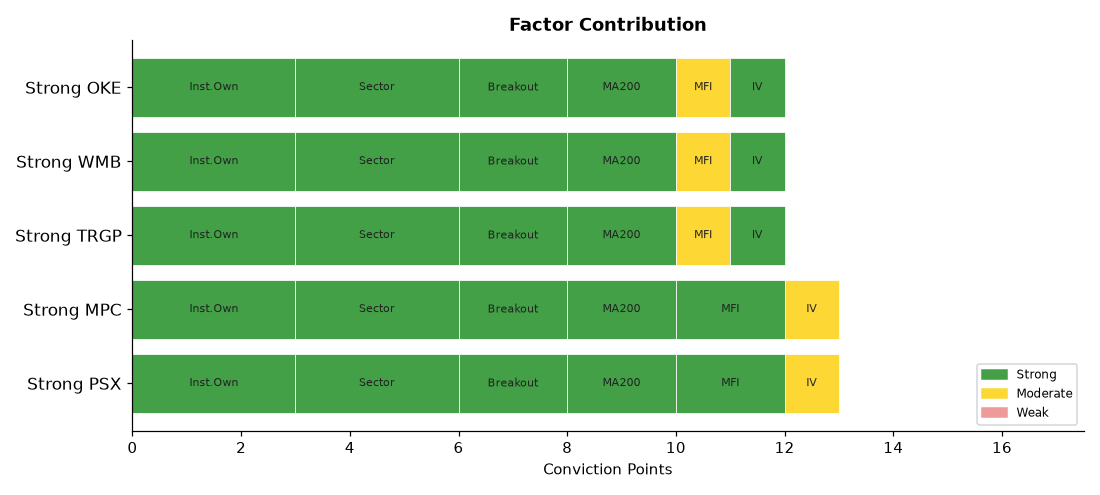
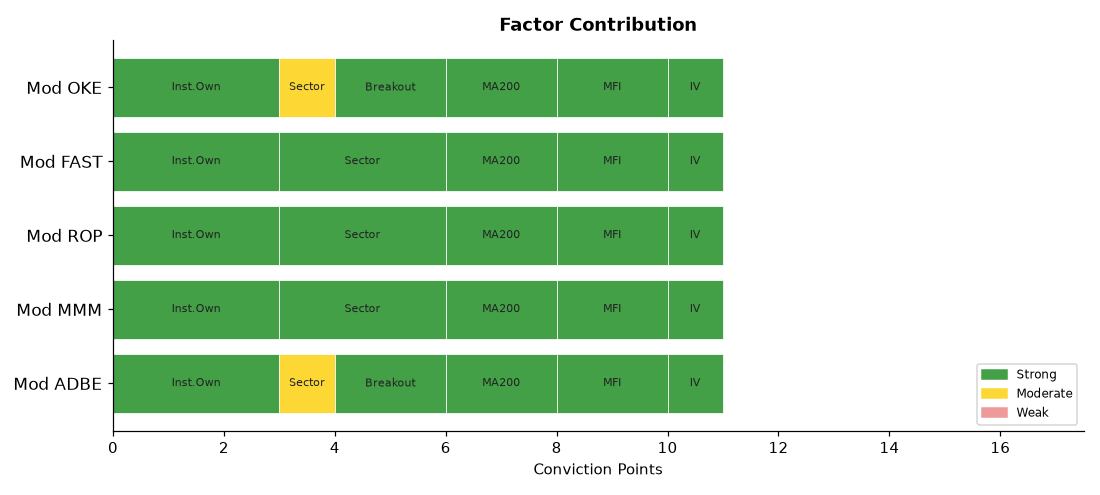
deploy: b7fadf5b06deb90e7ebb92f278722414bdd9750d

diff --git a/index.html b/index.html
@@ -4,7 +4,7 @@
   <meta charset="UTF-8">
   <meta name="viewport" content="width=device-width,initial-scale=1">
   <meta http-equiv="Cache-Control" content="no-cache,no-store,must-revalidate">
-  <title>Stock Breakout Screener — 2026-08-26 15:58</title>
+  <title>Stock Breakout Screener — 2026-08-26 19:09</title>
   <style>
     *{box-sizing:border-box;margin:0;padding:0}
     body{font-family:'Segoe UI',Arial,sans-serif;background:#f0f2f5;
@@ -34,20 +34,20 @@
 
 <div class="hdr">
   <h1>📈 Stock Breakout Screener</h1>
-  <p>Updated: 2026-08-26 15:58 UTC &nbsp;·&nbsp; Phase: Regular Market Hours &nbsp;·&nbsp;
+  <p>Updated: 2026-08-26 19:09 UTC &nbsp;·&nbsp; Phase: Regular Market Hours &nbsp;·&nbsp;
      129 stocks screened &nbsp;·&nbsp; Top 5 by conviction score</p>
 </div>
 
 <div class="card">
   <strong style="font-size:14px">Market Sentiment: 🐻 Bearish</strong>
   <div class="bar-wrap" style="margin-top:10px">
-    <div style="width:5%;background:#43a047"></div>
-    <div style="width:3%;background:#fdd835"></div>
+    <div style="width:0%;background:#43a047"></div>
+    <div style="width:8%;background:#fdd835"></div>
     <div style="width:92%;background:#e53935"></div>
   </div>
   <div style="font-size:12px;color:#555">
-    🟢 Strong 5% &nbsp;
-    🟡 Moderate 3% &nbsp;
+    🟢 Strong 0% &nbsp;
+    🟡 Moderate 8% &nbsp;
     🔴 Weak 92%
   </div>
 </div>
@@ -59,85 +59,85 @@
                     box-shadow:0 2px 6px rgba(0,0,0,.07)">
           <div style="display:flex;align-items:center;gap:10px;
                       flex-wrap:wrap;margin-bottom:10px">
-            <span style="font-size:22px">🟢</span>
-            <span style="font-size:19px;font-weight:700">1. PSX</span>
-            <span style="font-size:12px;color:#666">Energy</span>
+            <span style="font-size:22px">🟡</span>
+            <span style="font-size:19px;font-weight:700">1. ADBE</span>
+            <span style="font-size:12px;color:#666">Technology</span>
             <span style="margin-left:auto;background:#1a237e;color:#fff;
                          padding:3px 12px;border-radius:12px;
                          font-size:13px;font-weight:600">
-              12/17
+              11/17
             </span>
           </div>
           <ul style="margin:0;padding-left:18px;font-size:13px;
-                     color:#333;line-height:1.8"><li style="margin:5px 0"><span style="background:#ffebee;color:#b71c1c;padding:2px 7px;border-radius:4px;font-size:11px;">❌</span> Volume: <b>0.2× average</b> — Above-average activity</li><li style="margin:5px 0"><span style="background:#e8f5e9;color:#2e7d32;padding:2px 7px;border-radius:4px;font-size:11px;">✅</span> Candle: close <b>$243.12</b> vs open <b>$234.06</b> (+3.9%) — regular market close</li><li style="margin:5px 0"><span style="background:#e8f5e9;color:#2e7d32;padding:2px 7px;border-radius:4px;font-size:11px;">✅</span> 200-Day MA: price <b>$243.12</b> vs MA <b>$183.04</b> — <b>✅ Above</b> long-term trend</li><li style="margin:5px 0"><span style="background:#e8f5e9;color:#2e7d32;padding:2px 7px;border-radius:4px;font-size:11px;">✅</span> Inst. ownership: <b>80.6%</b> · MFI: <b>78.5</b> · Market cap: <b>$97.5B</b></li></ul>
+                     color:#333;line-height:1.8"><li style="margin:5px 0"><span style="background:#ffebee;color:#b71c1c;padding:2px 7px;border-radius:4px;font-size:11px;">❌</span> Volume: <b>0.3× average</b> — Above-average activity</li><li style="margin:5px 0"><span style="background:#e8f5e9;color:#2e7d32;padding:2px 7px;border-radius:4px;font-size:11px;">✅</span> Candle: close <b>$273.43</b> vs open <b>$265.04</b> (+3.2%) — regular market close</li><li style="margin:5px 0"><span style="background:#e8f5e9;color:#2e7d32;padding:2px 7px;border-radius:4px;font-size:11px;">✅</span> 200-Day MA: price <b>$273.43</b> vs MA <b>$243.62</b> — <b>✅ Above</b> long-term trend</li><li style="margin:5px 0"><span style="background:#e8f5e9;color:#2e7d32;padding:2px 7px;border-radius:4px;font-size:11px;">✅</span> Inst. ownership: <b>86.8%</b> · MFI: <b>68.2</b> · Market cap: <b>$108.7B</b></li></ul>
         </div>
         <div style="background:#fff;border:1px solid #ddd;border-radius:10px;
                     padding:16px 20px;margin-bottom:12px;
                     box-shadow:0 2px 6px rgba(0,0,0,.07)">
           <div style="display:flex;align-items:center;gap:10px;
                       flex-wrap:wrap;margin-bottom:10px">
-            <span style="font-size:22px">🟢</span>
-            <span style="font-size:19px;font-weight:700">2. MPC</span>
-            <span style="font-size:12px;color:#666">Energy</span>
+            <span style="font-size:22px">🟡</span>
+            <span style="font-size:19px;font-weight:700">2. MMM</span>
+            <span style="font-size:12px;color:#666">Industrials</span>
             <span style="margin-left:auto;background:#1a237e;color:#fff;
                          padding:3px 12px;border-radius:12px;
                          font-size:13px;font-weight:600">
-              12/17
+              11/17
             </span>
           </div>
           <ul style="margin:0;padding-left:18px;font-size:13px;
-                     color:#333;line-height:1.8"><li style="margin:5px 0"><span style="background:#ffebee;color:#b71c1c;padding:2px 7px;border-radius:4px;font-size:11px;">❌</span> Volume: <b>0.3× average</b> — Above-average activity</li><li style="margin:5px 0"><span style="background:#e8f5e9;color:#2e7d32;padding:2px 7px;border-radius:4px;font-size:11px;">✅</span> Candle: close <b>$363.82</b> vs open <b>$350.79</b> (+3.7%) — regular market close</li><li style="margin:5px 0"><span style="background:#e8f5e9;color:#2e7d32;padding:2px 7px;border-radius:4px;font-size:11px;">✅</span> 200-Day MA: price <b>$363.82</b> vs MA <b>$263.75</b> — <b>✅ Above</b> long-term trend</li><li style="margin:5px 0"><span style="background:#e8f5e9;color:#2e7d32;padding:2px 7px;border-radius:4px;font-size:11px;">✅</span> Inst. ownership: <b>79.6%</b> · MFI: <b>71.8</b> · Market cap: <b>$102.2B</b></li></ul>
+                     color:#333;line-height:1.8"><li style="margin:5px 0"><span style="background:#ffebee;color:#b71c1c;padding:2px 7px;border-radius:4px;font-size:11px;">❌</span> Volume: <b>0.3× average</b> — Above-average activity</li><li style="margin:5px 0"><span style="background:#ffebee;color:#b71c1c;padding:2px 7px;border-radius:4px;font-size:11px;">❌</span> Candle: close <b>$178.82</b> vs open <b>$180.50</b> (-0.9%) — regular market close</li><li style="margin:5px 0"><span style="background:#e8f5e9;color:#2e7d32;padding:2px 7px;border-radius:4px;font-size:11px;">✅</span> 200-Day MA: price <b>$178.82</b> vs MA <b>$157.03</b> — <b>✅ Above</b> long-term trend</li><li style="margin:5px 0"><span style="background:#e8f5e9;color:#2e7d32;padding:2px 7px;border-radius:4px;font-size:11px;">✅</span> Inst. ownership: <b>76.9%</b> · MFI: <b>61.3</b> · Market cap: <b>$92.2B</b></li></ul>
         </div>
         <div style="background:#fff;border:1px solid #ddd;border-radius:10px;
                     padding:16px 20px;margin-bottom:12px;
                     box-shadow:0 2px 6px rgba(0,0,0,.07)">
           <div style="display:flex;align-items:center;gap:10px;
                       flex-wrap:wrap;margin-bottom:10px">
-            <span style="font-size:22px">🟢</span>
-            <span style="font-size:19px;font-weight:700">3. TRGP</span>
-            <span style="font-size:12px;color:#666">Energy</span>
+            <span style="font-size:22px">🟡</span>
+            <span style="font-size:19px;font-weight:700">3. ROP</span>
+            <span style="font-size:12px;color:#666">Industrials</span>
             <span style="margin-left:auto;background:#1a237e;color:#fff;
                          padding:3px 12px;border-radius:12px;
                          font-size:13px;font-weight:600">
-              12/17
+              11/17
             </span>
           </div>
           <ul style="margin:0;padding-left:18px;font-size:13px;
-                     color:#333;line-height:1.8"><li style="margin:5px 0"><span style="background:#ffebee;color:#b71c1c;padding:2px 7px;border-radius:4px;font-size:11px;">❌</span> Volume: <b>0.2× average</b> — Above-average activity</li><li style="margin:5px 0"><span style="background:#e8f5e9;color:#2e7d32;padding:2px 7px;border-radius:4px;font-size:11px;">✅</span> Candle: close <b>$294.30</b> vs open <b>$284.26</b> (+3.5%) — regular market close</li><li style="margin:5px 0"><span style="background:#e8f5e9;color:#2e7d32;padding:2px 7px;border-radius:4px;font-size:11px;">✅</span> 200-Day MA: price <b>$294.30</b> vs MA <b>$258.40</b> — <b>✅ Above</b> long-term trend</li><li style="margin:5px 0"><span style="background:#e8f5e9;color:#2e7d32;padding:2px 7px;border-radius:4px;font-size:11px;">✅</span> Inst. ownership: <b>97.5%</b> · MFI: <b>53.6</b> · Market cap: <b>$63.1B</b></li></ul>
+                     color:#333;line-height:1.8"><li style="margin:5px 0"><span style="background:#ffebee;color:#b71c1c;padding:2px 7px;border-radius:4px;font-size:11px;">❌</span> Volume: <b>0.2× average</b> — Above-average activity</li><li style="margin:5px 0"><span style="background:#ffebee;color:#b71c1c;padding:2px 7px;border-radius:4px;font-size:11px;">❌</span> Candle: close <b>$415.89</b> vs open <b>$407.44</b> (+2.1%) — regular market close</li><li style="margin:5px 0"><span style="background:#e8f5e9;color:#2e7d32;padding:2px 7px;border-radius:4px;font-size:11px;">✅</span> 200-Day MA: price <b>$415.89</b> vs MA <b>$355.43</b> — <b>✅ Above</b> long-term trend</li><li style="margin:5px 0"><span style="background:#e8f5e9;color:#2e7d32;padding:2px 7px;border-radius:4px;font-size:11px;">✅</span> Inst. ownership: <b>106.9%</b> · MFI: <b>68.9</b> · Market cap: <b>$41.1B</b></li></ul>
         </div>
         <div style="background:#fff;border:1px solid #ddd;border-radius:10px;
                     padding:16px 20px;margin-bottom:12px;
                     box-shadow:0 2px 6px rgba(0,0,0,.07)">
           <div style="display:flex;align-items:center;gap:10px;
                       flex-wrap:wrap;margin-bottom:10px">
-            <span style="font-size:22px">🟢</span>
-            <span style="font-size:19px;font-weight:700">4. WMB</span>
-            <span style="font-size:12px;color:#666">Energy</span>
+            <span style="font-size:22px">🟡</span>
+            <span style="font-size:19px;font-weight:700">4. FAST</span>
+            <span style="font-size:12px;color:#666">Industrials</span>
             <span style="margin-left:auto;background:#1a237e;color:#fff;
                          padding:3px 12px;border-radius:12px;
                          font-size:13px;font-weight:600">
-              12/17
+              11/17
             </span>
           </div>
           <ul style="margin:0;padding-left:18px;font-size:13px;
-                     color:#333;line-height:1.8"><li style="margin:5px 0"><span style="background:#ffebee;color:#b71c1c;padding:2px 7px;border-radius:4px;font-size:11px;">❌</span> Volume: <b>0.6× average</b> — Above-average activity</li><li style="margin:5px 0"><span style="background:#e8f5e9;color:#2e7d32;padding:2px 7px;border-radius:4px;font-size:11px;">✅</span> Candle: close <b>$74.48</b> vs open <b>$71.16</b> (+4.7%) — regular market close</li><li style="margin:5px 0"><span style="background:#e8f5e9;color:#2e7d32;padding:2px 7px;border-radius:4px;font-size:11px;">✅</span> 200-Day MA: price <b>$74.48</b> vs MA <b>$73.12</b> — <b>✅ Above</b> long-term trend</li><li style="margin:5px 0"><span style="background:#e8f5e9;color:#2e7d32;padding:2px 7px;border-radius:4px;font-size:11px;">✅</span> Inst. ownership: <b>91.4%</b> · MFI: <b>51.2</b> · Market cap: <b>$91.1B</b></li></ul>
+                     color:#333;line-height:1.8"><li style="margin:5px 0"><span style="background:#ffebee;color:#b71c1c;padding:2px 7px;border-radius:4px;font-size:11px;">❌</span> Volume: <b>0.2× average</b> — Above-average activity</li><li style="margin:5px 0"><span style="background:#ffebee;color:#b71c1c;padding:2px 7px;border-radius:4px;font-size:11px;">❌</span> Candle: close <b>$51.16</b> vs open <b>$50.65</b> (+1.0%) — regular market close</li><li style="margin:5px 0"><span style="background:#e8f5e9;color:#2e7d32;padding:2px 7px;border-radius:4px;font-size:11px;">✅</span> 200-Day MA: price <b>$51.16</b> vs MA <b>$46.19</b> — <b>✅ Above</b> long-term trend</li><li style="margin:5px 0"><span style="background:#e8f5e9;color:#2e7d32;padding:2px 7px;border-radius:4px;font-size:11px;">✅</span> Inst. ownership: <b>87.6%</b> · MFI: <b>66.8</b> · Market cap: <b>$58.7B</b></li></ul>
         </div>
         <div style="background:#fff;border:1px solid #ddd;border-radius:10px;
                     padding:16px 20px;margin-bottom:12px;
                     box-shadow:0 2px 6px rgba(0,0,0,.07)">
           <div style="display:flex;align-items:center;gap:10px;
                       flex-wrap:wrap;margin-bottom:10px">
-            <span style="font-size:22px">🟢</span>
+            <span style="font-size:22px">🟡</span>
             <span style="font-size:19px;font-weight:700">5. OKE</span>
             <span style="font-size:12px;color:#666">Energy</span>
             <span style="margin-left:auto;background:#1a237e;color:#fff;
                          padding:3px 12px;border-radius:12px;
                          font-size:13px;font-weight:600">
-              12/17
+              11/17
             </span>
           </div>
           <ul style="margin:0;padding-left:18px;font-size:13px;
-                     color:#333;line-height:1.8"><li style="margin:5px 0"><span style="background:#ffebee;color:#b71c1c;padding:2px 7px;border-radius:4px;font-size:11px;">❌</span> Volume: <b>0.3× average</b> — Above-average activity</li><li style="margin:5px 0"><span style="background:#e8f5e9;color:#2e7d32;padding:2px 7px;border-radius:4px;font-size:11px;">✅</span> Candle: close <b>$94.73</b> vs open <b>$91.40</b> (+3.6%) — regular market close</li><li style="margin:5px 0"><span style="background:#e8f5e9;color:#2e7d32;padding:2px 7px;border-radius:4px;font-size:11px;">✅</span> 200-Day MA: price <b>$94.73</b> vs MA <b>$87.73</b> — <b>✅ Above</b> long-term trend</li><li style="margin:5px 0"><span style="background:#e8f5e9;color:#2e7d32;padding:2px 7px;border-radius:4px;font-size:11px;">✅</span> Inst. ownership: <b>84.8%</b> · MFI: <b>59.3</b> · Market cap: <b>$59.7B</b></li></ul>
+                     color:#333;line-height:1.8"><li style="margin:5px 0"><span style="background:#ffebee;color:#b71c1c;padding:2px 7px;border-radius:4px;font-size:11px;">❌</span> Volume: <b>0.5× average</b> — Above-average activity</li><li style="margin:5px 0"><span style="background:#e8f5e9;color:#2e7d32;padding:2px 7px;border-radius:4px;font-size:11px;">✅</span> Candle: close <b>$94.38</b> vs open <b>$91.40</b> (+3.3%) — regular market close</li><li style="margin:5px 0"><span style="background:#e8f5e9;color:#2e7d32;padding:2px 7px;border-radius:4px;font-size:11px;">✅</span> 200-Day MA: price <b>$94.38</b> vs MA <b>$87.72</b> — <b>✅ Above</b> long-term trend</li><li style="margin:5px 0"><span style="background:#e8f5e9;color:#2e7d32;padding:2px 7px;border-radius:4px;font-size:11px;">✅</span> Inst. ownership: <b>84.8%</b> · MFI: <b>60.1</b> · Market cap: <b>$59.5B</b></li></ul>
         </div>
 
 
@@ -168,93 +168,93 @@
   
         <tr>
           <td style="font-weight:700;text-align:left;padding-left:10px">
-            🟢 PSX</td>
-          <td style="background:#ffcdd2">0.2×</td>
-          <td style="background:#c8e6c9">+3.9%</td>
-          <td style="background:#c8e6c9">
-            ▲ Above</td>
-          <td style="background:#c8e6c9">
-            80.6%</td>
-          <td style="background:#c8e6c9">
-            78.5</td>
-          <td style="background:#c8e6c9">Energy</td>
-          <td style="background:#fff9c4">
-            23.6%</td>
-          <td style="background:#ffcdd2">
-            N/A</td>
-          <td style="font-weight:800;font-size:15px">12/17</td>
-        </tr>
-        <tr>
-          <td style="font-weight:700;text-align:left;padding-left:10px">
-            🟢 MPC</td>
+            🟡 ADBE</td>
           <td style="background:#ffcdd2">0.3×</td>
-          <td style="background:#c8e6c9">+3.7%</td>
+          <td style="background:#c8e6c9">+3.2%</td>
           <td style="background:#c8e6c9">
             ▲ Above</td>
           <td style="background:#c8e6c9">
-            79.6%</td>
+            86.8%</td>
           <td style="background:#c8e6c9">
-            71.8</td>
-          <td style="background:#c8e6c9">Energy</td>
-          <td style="background:#fff9c4">
-            16.9%</td>
+            68.2</td>
+          <td style="background:#fff9c4">Technology</td>
+          <td style="background:#c8e6c9">
+            149.8%</td>
           <td style="background:#ffcdd2">
             N/A</td>
-          <td style="font-weight:800;font-size:15px">12/17</td>
+          <td style="font-weight:800;font-size:15px">11/17</td>
         </tr>
         <tr>
           <td style="font-weight:700;text-align:left;padding-left:10px">
-            🟢 TRGP</td>
-          <td style="background:#ffcdd2">0.2×</td>
-          <td style="background:#c8e6c9">+3.5%</td>
-          <td style="background:#c8e6c9">
-            ▲ Above</td>
-          <td style="background:#c8e6c9">
-            97.5%</td>
-          <td style="background:#fff9c4">
-            53.6</td>
-          <td style="background:#c8e6c9">Energy</td>
-          <td style="background:#c8e6c9">
-            41.5%</td>
-          <td style="background:#ffcdd2">
-            N/A</td>
-          <td style="font-weight:800;font-size:15px">12/17</td>
-        </tr>
-        <tr>
-          <td style="font-weight:700;text-align:left;padding-left:10px">
-            🟢 WMB</td>
-          <td style="background:#ffcdd2">0.6×</td>
-          <td style="background:#c8e6c9">+4.7%</td>
-          <td style="background:#c8e6c9">
-            ▲ Above</td>
-          <td style="background:#c8e6c9">
-            91.4%</td>
-          <td style="background:#fff9c4">
-            51.2</td>
-          <td style="background:#c8e6c9">Energy</td>
-          <td style="background:#c8e6c9">
-            114.5%</td>
-          <td style="background:#ffcdd2">
-            N/A</td>
-          <td style="font-weight:800;font-size:15px">12/17</td>
-        </tr>
-        <tr>
-          <td style="font-weight:700;text-align:left;padding-left:10px">
-            🟢 OKE</td>
+            🟡 MMM</td>
           <td style="background:#ffcdd2">0.3×</td>
-          <td style="background:#c8e6c9">+3.6%</td>
+          <td style="background:#ffcdd2">-0.9%</td>
+          <td style="background:#c8e6c9">
+            ▲ Above</td>
+          <td style="background:#c8e6c9">
+            76.9%</td>
+          <td style="background:#c8e6c9">
+            61.3</td>
+          <td style="background:#c8e6c9">Industrials</td>
+          <td style="background:#c8e6c9">
+            120.1%</td>
+          <td style="background:#ffcdd2">
+            N/A</td>
+          <td style="font-weight:800;font-size:15px">11/17</td>
+        </tr>
+        <tr>
+          <td style="font-weight:700;text-align:left;padding-left:10px">
+            🟡 ROP</td>
+          <td style="background:#ffcdd2">0.2×</td>
+          <td style="background:#ffcdd2">+2.1%</td>
+          <td style="background:#c8e6c9">
+            ▲ Above</td>
+          <td style="background:#c8e6c9">
+            106.9%</td>
+          <td style="background:#c8e6c9">
+            68.9</td>
+          <td style="background:#c8e6c9">Industrials</td>
+          <td style="background:#c8e6c9">
+            41.6%</td>
+          <td style="background:#ffcdd2">
+            N/A</td>
+          <td style="font-weight:800;font-size:15px">11/17</td>
+        </tr>
+        <tr>
+          <td style="font-weight:700;text-align:left;padding-left:10px">
+            🟡 FAST</td>
+          <td style="background:#ffcdd2">0.2×</td>
+          <td style="background:#ffcdd2">+1.0%</td>
+          <td style="background:#c8e6c9">
+            ▲ Above</td>
+          <td style="background:#c8e6c9">
+            87.6%</td>
+          <td style="background:#c8e6c9">
+            66.8</td>
+          <td style="background:#c8e6c9">Industrials</td>
+          <td style="background:#c8e6c9">
+            99.3%</td>
+          <td style="background:#ffcdd2">
+            N/A</td>
+          <td style="font-weight:800;font-size:15px">11/17</td>
+        </tr>
+        <tr>
+          <td style="font-weight:700;text-align:left;padding-left:10px">
+            🟡 OKE</td>
+          <td style="background:#ffcdd2">0.5×</td>
+          <td style="background:#c8e6c9">+3.3%</td>
           <td style="background:#c8e6c9">
             ▲ Above</td>
           <td style="background:#c8e6c9">
             84.8%</td>
-          <td style="background:#fff9c4">
-            59.3</td>
-          <td style="background:#c8e6c9">Energy</td>
           <td style="background:#c8e6c9">
-            35.4%</td>
+            60.1</td>
+          <td style="background:#fff9c4">Energy</td>
+          <td style="background:#c8e6c9">
+            43.2%</td>
           <td style="background:#ffcdd2">
             N/A</td>
-          <td style="font-weight:800;font-size:15px">12/17</td>
+          <td style="font-weight:800;font-size:15px">11/17</td>
         </tr>
 </table>
 </div>
@@ -277,58 +277,58 @@
       
         <tr>
           <td style="text-align:left;padding-left:10px;font-weight:600">
-            #1 Energy</td>
-          <td style="background:#e8f5e9;color:#2e7d32;font-weight:700">+1.39%</td>
+            #1 Industrials</td>
+          <td style="background:#e8f5e9;color:#2e7d32;font-weight:700">+1.12%</td>
         </tr>
         <tr>
           <td style="text-align:left;padding-left:10px;font-weight:600">
-            #2 Industrials</td>
-          <td style="background:#e8f5e9;color:#2e7d32;font-weight:700">+1.16%</td>
+            #2 Technology</td>
+          <td style="background:#e8f5e9;color:#2e7d32;font-weight:700">+0.82%</td>
         </tr>
         <tr>
           <td style="text-align:left;padding-left:10px;font-weight:600">
-            #3 Utilities</td>
-          <td style="background:#e8f5e9;color:#2e7d32;font-weight:700">+0.50%</td>
+            #3 Energy</td>
+          <td style="background:#e8f5e9;color:#2e7d32;font-weight:700">+0.63%</td>
         </tr>
         <tr>
           <td style="text-align:left;padding-left:10px;font-weight:600">
-            #4 Materials</td>
-          <td style="background:#e8f5e9;color:#2e7d32;font-weight:700">+0.45%</td>
+            #4 Utilities</td>
+          <td style="background:#e8f5e9;color:#2e7d32;font-weight:700">+0.22%</td>
         </tr>
         <tr>
           <td style="text-align:left;padding-left:10px;font-weight:600">
-            #5 Technology</td>
-          <td style="background:#e8f5e9;color:#2e7d32;font-weight:700">+0.30%</td>
+            #5 Materials</td>
+          <td style="background:#e8f5e9;color:#2e7d32;font-weight:700">+0.16%</td>
         </tr>
         <tr>
           <td style="text-align:left;padding-left:10px;font-weight:600">
             #6 Financials</td>
-          <td style="background:#ffebee;color:#c62828;font-weight:700">-0.04%</td>
+          <td style="background:#e8f5e9;color:#2e7d32;font-weight:700">+0.01%</td>
         </tr>
         <tr>
           <td style="text-align:left;padding-left:10px;font-weight:600">
             #7 Consumer Stpl</td>
-          <td style="background:#ffebee;color:#c62828;font-weight:700">-0.07%</td>
+          <td style="background:#ffebee;color:#c62828;font-weight:700">-0.21%</td>
         </tr>
         <tr>
           <td style="text-align:left;padding-left:10px;font-weight:600">
-            #8 Real Estate</td>
-          <td style="background:#ffebee;color:#c62828;font-weight:700">-0.26%</td>
+            #8 Comm. Services</td>
+          <td style="background:#ffebee;color:#c62828;font-weight:700">-0.21%</td>
         </tr>
         <tr>
           <td style="text-align:left;padding-left:10px;font-weight:600">
-            #9 Comm. Services</td>
-          <td style="background:#ffebee;color:#c62828;font-weight:700">-0.50%</td>
+            #9 Consumer Disc</td>
+          <td style="background:#ffebee;color:#c62828;font-weight:700">-0.53%</td>
         </tr>
         <tr>
           <td style="text-align:left;padding-left:10px;font-weight:600">
-            #10 Consumer Disc</td>
-          <td style="background:#ffebee;color:#c62828;font-weight:700">-0.82%</td>
+            #10 Real Estate</td>
+          <td style="background:#ffebee;color:#c62828;font-weight:700">-0.53%</td>
         </tr>
         <tr>
           <td style="text-align:left;padding-left:10px;font-weight:600">
             #11 Healthcare</td>
-          <td style="background:#ffebee;color:#c62828;font-weight:700">-0.98%</td>
+          <td style="background:#ffebee;color:#c62828;font-weight:700">-0.88%</td>
         </tr>
     </table>
   </div>
@@ -367,7 +367,7 @@
         <li><b>Scoring weights:</b>
             Inst.Own(3) · Sector(3) · Volume(2) · Breakout(2) ·
             MA200(2) · MFI(2) · History(2) · IV(1) = 17pts max</li>
-        <li><b>Run time:</b> 2026-08-26 15:58 UTC — Market phase: Regular Market Hours</li>
+        <li><b>Run time:</b> 2026-08-26 19:09 UTC — Market phase: Regular Market Hours</li>
       </ul>
     </div>
 
